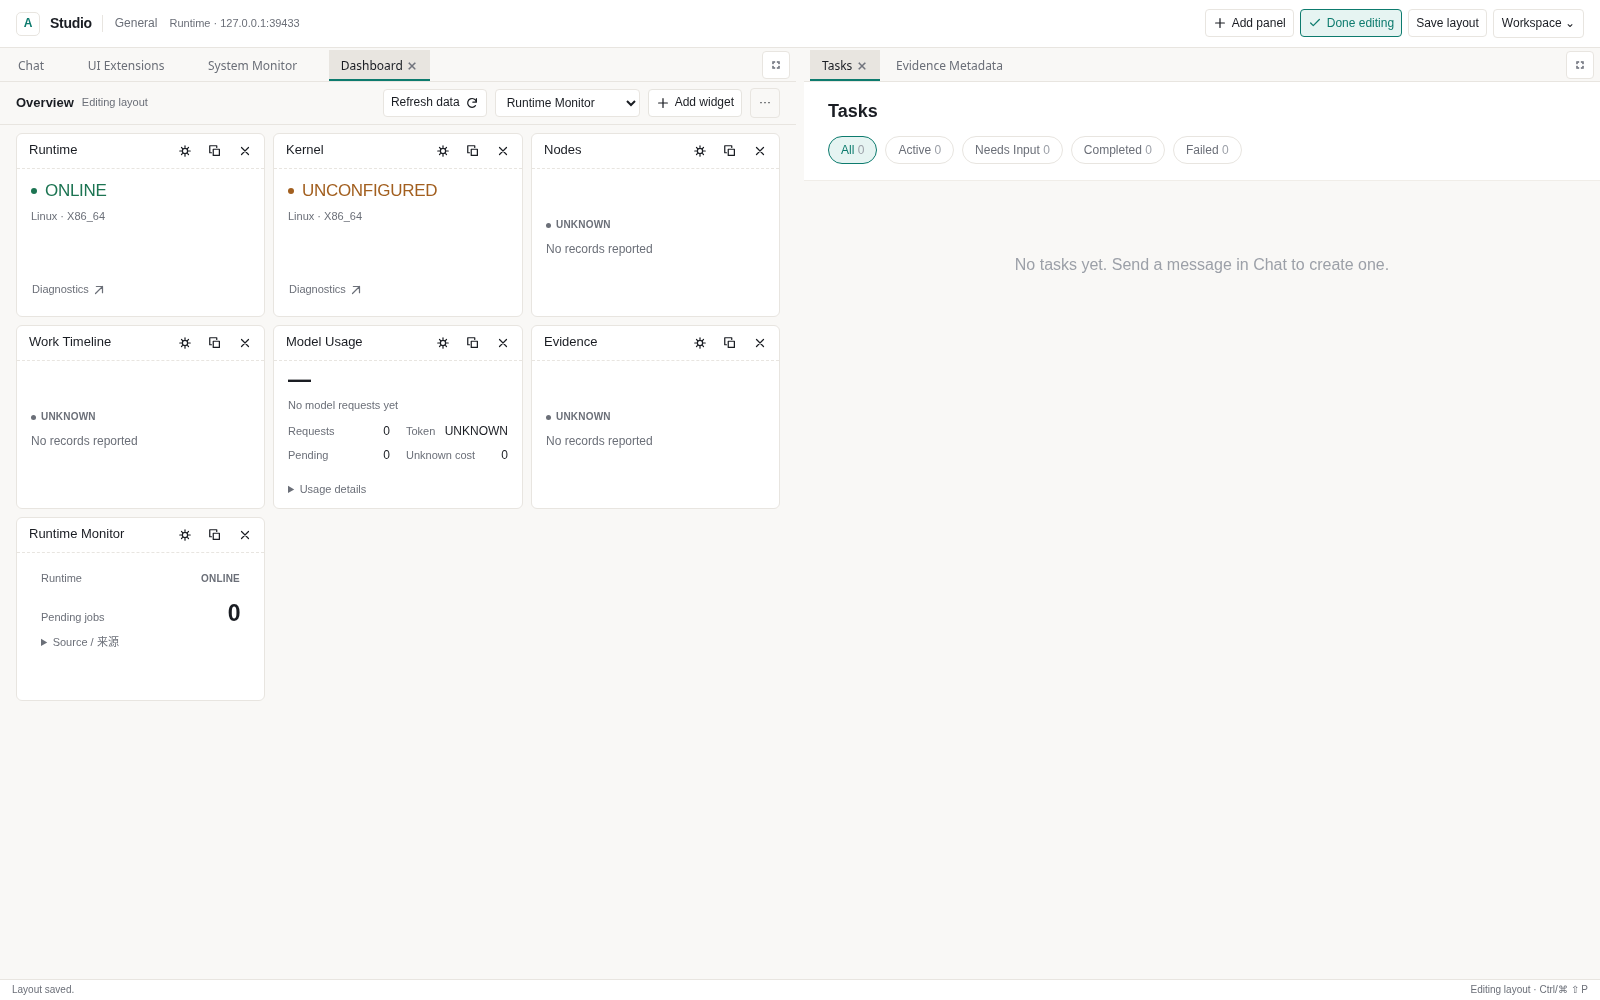
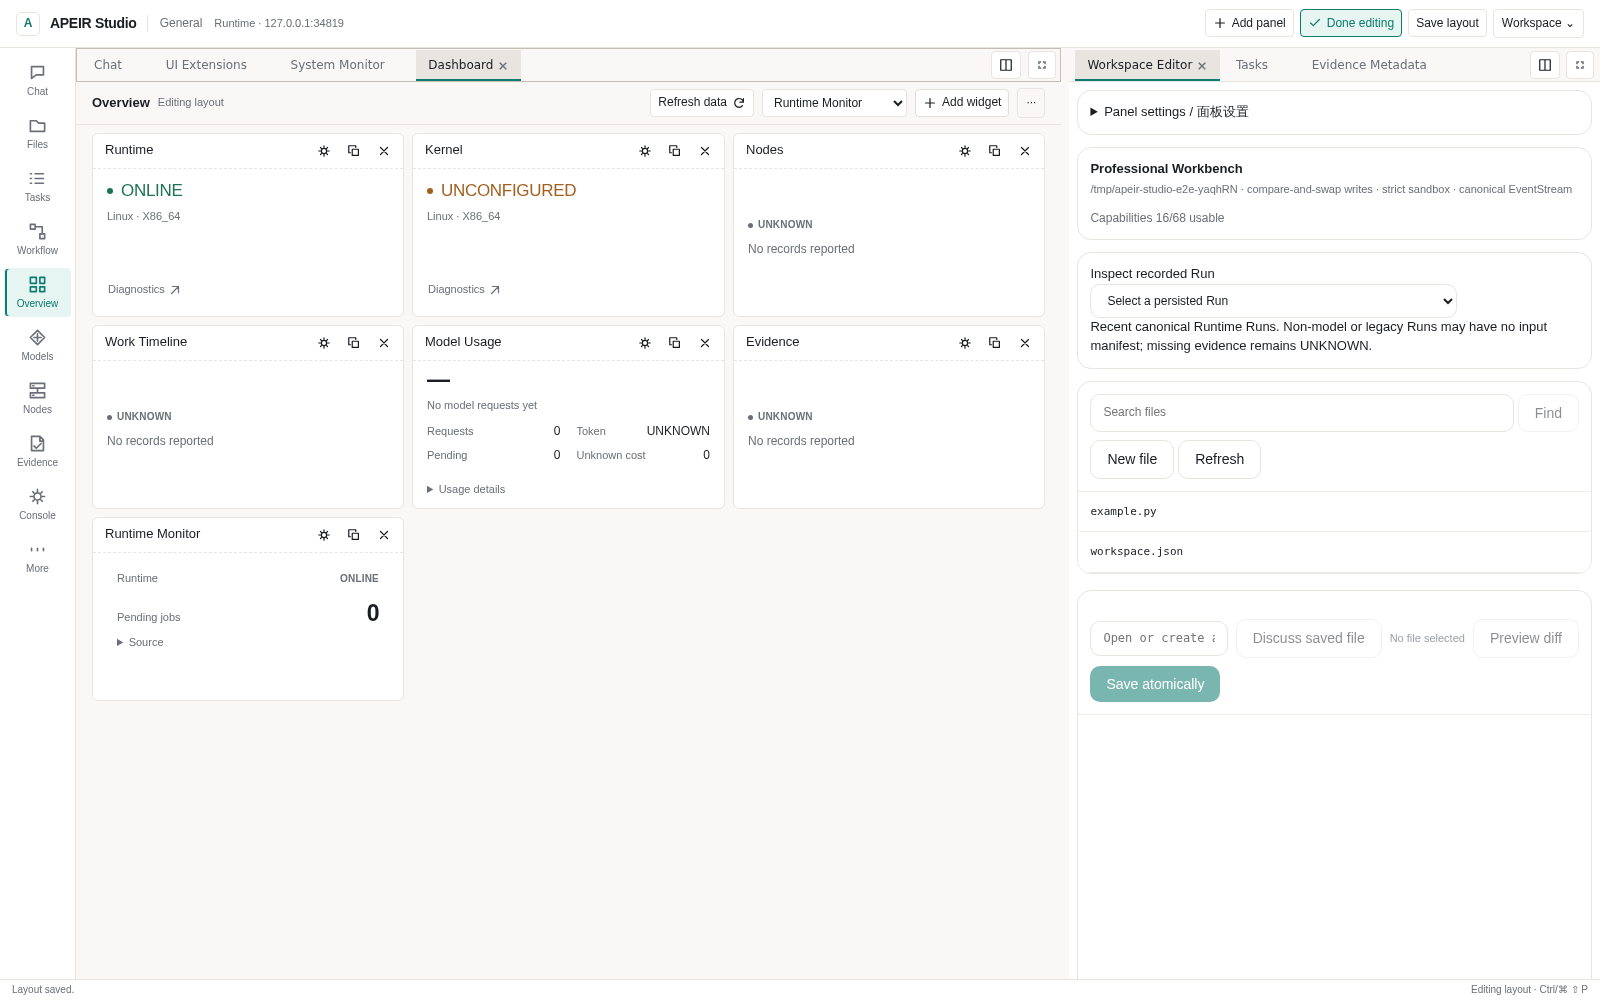
docs(studio): refresh first-use guides and verified product screenshots

diff --git a/docs/operations/getting-started/QUICK_START.md b/docs/operations/getting-started/QUICK_START.md
@@ -4,6 +4,10 @@ Choose the path matching the deliverable you have. No API key, GPU or device is
 needed for the Source Preview and simulated Demo. Current qualification and
 blockers remain in [ROADMAP](../../../ROADMAP.md).
 
+**You need:** Python 3.10+ for the Source Preview. Its prebuilt Studio interface
+does not need Node.js or Rust. Source development additionally needs Node.js
+22.19+. Windows native packaging has separate prerequisites below.
+
 | Path | What you get | Status |
 | --- | --- | --- |
 | [Source Preview](#source-preview) | Downloaded Python Runtime and built Studio browser UI | Source-qualified; no EXE |
@@ -24,12 +28,10 @@ Core/Security/Multi-Arch results. A frontend-only artifact from a PR is not a
 complete Source Preview. GitHub sign-in is required; artifacts have seven-day
 retention. These are source packages, not an EXE, native installer or signed Release.
 
-A separately installed and browser-qualified historical source snapshot is
-`62cbe6ff53a769172067740370f26fb18eb3c094` (2026-10-25):
-[Python package](https://github.com/untrod/apeir/actions/runs/40144930113/artifacts/12580500976)
-and [Studio frontend](https://github.com/untrod/apeir/actions/runs/40144930113/artifacts/12579679819).
-It predates the visual Workflow Builder and declarative UI SDK; do not treat it
-as qualification of those additions. Use a newer accepted matching build for them.
+Choose **both** packages from one accepted run. A GitHub source-code ZIP is not
+the built frontend, and a green frontend check alone does not qualify a complete
+product. If an older artifact has expired, use a newer qualified main run rather
+than mixing packages from different revisions.
 
 Extract the two ZIPs into separate directories. Compare their manifest
 `distribution_revision` values and verify the files against their `SHA256SUMS.txt`.
@@ -203,7 +205,9 @@ npm ci
 npm run dev -- --host 127.0.0.1
 ```
 
-Open the loopback URL printed by Vite. Expand **Controller connection**, set
+Open the loopback URL printed by Vite. In current Studio, choose
+**Workspace → Operations Console**; older previews may open that Console
+directly. Expand **Controller connection**, set
 **API URL** to `http://127.0.0.1:8770`, then enter the token from the owner-only
 local file in **Service session token** and select **Connect**. Set the address
 before entering the token: editing it clears the draft, and changing Controllers
@@ -218,6 +222,12 @@ not an installed Windows executable. File approvals still require a separately
 enrolled authorized human; test execution remains BLOCKED without a qualified
 sandbox. An API health response does not establish model inference or execution
 qualification.
+
+Choose **APEIR Studio / Open workspace** in the Console to return to the
+workspace. Start with **Files**, **Workflow** or **Overview**; a model is optional
+for these supported software paths. Chat remains unconfigured until its model
+and Kernel prerequisites are met. A session token connects to the service; it
+does not approve a file change or grant device control.
 
 The existing Desktop CI also uploads `apeir-studio-source-frontend-<commit>`
 after unit/build and actual Runtime/browser integration pass. This is a static
@@ -404,10 +414,11 @@ need inspection/reconciliation before any new side effect.
 
 **BLOCKED — no current Windows EXE / Portable / NSIS download is qualified.**
 Source Preview does not install the Rust Kernel or package a native Desktop.
-The two original locked Kernel Windows binaries are unavailable. Reviewed R4
-rebuilds passed scoped native-process tests but differ from the unchanged lock;
-relocking requires maintainer approval. Windows10 install/upgrade/uninstall,
-signing and release authorization remain separate.
+The original locked Kernel Windows binaries were unavailable. The maintainer
+has approved exact frozen-source replacement hashes and internal unsigned
+builds; [PR #101](https://github.com/untrod/apeir/pull/101) records the migration.
+Current packaging is under validation. Windows10 install/upgrade/uninstall,
+signing and publication remain separate gates.
 
 See the [recorded component evidence](../deployment/WINDOWS_10_X64_LAUNCHER.md#r4-trusted-candidate-evidence--2026-10-24)
 and [Release Runbook](../../acceptance/RELEASE_RUNBOOK.md). Never rename a source

diff --git a/docs/development/DEVELOPER_PLATFORM.md b/docs/development/DEVELOPER_PLATFORM.md
@@ -3,12 +3,20 @@
 Current overall milestone status is authoritative in [ROADMAP](../../ROADMAP.md).
 Acceptance counts below are dated, scoped records, not broader qualification.
 
-The APEIR Developer Platform is a control surface over the Runtime. It does not
-own a second scheduler, project database, model registry, or execution path.
+Use Studio to work on a project, inspect a workflow, or build an extension.
+The interface uses the existing Runtime services and their permission checks.
+
+| Your goal | Start here |
+| --- | --- |
+| Install and open Studio | [Quick Start](../operations/getting-started/QUICK_START.md) |
+| Arrange project and conversation panels | [Studio](#apeir-studio) |
+| Build and run a supported graph | [Workflow Builder](#visual-workflow-builder) |
+| Create a read-only panel or widget | [UI Extension SDK](#declarative-ui-extension-sdk) |
+| Connect an execution or model Provider | [Provider example](../../examples/hello_provider/README.md) |
 
 ## Surfaces
 
-The desktop `Develop` page provides the following views:
+Studio's panel library and the existing `Develop` views provide:
 
 - **Workbench** provides workspace-scoped file browsing, bounded multi-file UTF-8 editor tabs, unified diff preview, compare-and-swap atomic writes, and fixed-profile strict execution.
 - **Research** provides approval-gated public web fetch, persistent sources, immutable snapshots, artifacts, injection scan results, and run evidence.
@@ -38,7 +46,18 @@ opens Studio directly, with Chat and the workspace editor in a new General
 layout. Existing saved layouts retain their panels and geometry; a dashboard-only
 layout is not reset. Source browser validation is not Windows EXE acceptance.
 
+On a fresh browser session, use **Workspace → Operations Console → Controller
+connection** to enter the Runtime URL and protected service session token, then
+return with **APEIR Studio / Open workspace**. The
+[connection guide](../operations/getting-started/QUICK_START.md#model-free-runtime-api-and-source-interface)
+explains which token to use. A Provider API key does not belong in that form.
+
 ![Studio conversation and project windows, real model-disabled Runtime on Linux Chromium](../media/studio-workspace-source.png)
+
+The current screenshots come from the
+[actual source-browser qualification](https://github.com/untrod/apeir/actions/runs/40351274217)
+at `f9e8301`, using an owned model-disabled Runtime and Linux Chromium.
+They do not qualify Windows installation, live inference or physical devices.
 
 Use **Workspace** for presets, saved layouts, import/export, language and theme.
 The left rail reveals existing Chat, Files, Tasks, Workflow, Dashboard, Models,
@@ -117,6 +136,8 @@ EventStream is the existing cursor-driven bus; Governance audit is separate.
 The same authenticated Controller supplies all visible widgets. Source browser
 checks cover actual HTTP reads and zero mutation requests, not native installation.
 
+![Dark-theme Dashboard connected to the actual model-disabled Runtime; absent resources remain UNKNOWN](../media/studio-source-overview.png)
+
 ### Visual Workflow Builder
 
 Choose **Add panel → Workflow Builder**. The stable `workflow` panel now edits
@@ -134,6 +155,8 @@ refresh history and inspect the original Run. No action is retried automatically
 Run details expose original IDs, definition/input digests, step states, outputs
 and durable EventStream history under the `runtime-service` scope. These are
 computational records, not independent physical-effect verification.
+
+![Workflow Builder showing a registered pure workflow, completed steps and its original Run](../media/studio-workflow-source.png)
 
 This endpoint binds only the existing pure **TRANSFORM**, **CONDITION**, **WAIT**
 and **APPROVAL** handlers. WAIT is an immediate barrier, not a timed delay;

diff --git a/README.md b/README.md
@@ -1,16 +1,27 @@
-# APEIR
+# APEIR Studio
 
-An open execution, governance and verification runtime for heterogeneous
-intelligence and real-world resources. Local-first, with explicit remote execution boundaries.
+A developer workspace for project files, governed workflows and execution
+evidence, powered by APEIR Runtime.
 
 [**Source Preview**](docs/operations/getting-started/QUICK_START.md#source-preview) ·
 [**Quick Start**](docs/operations/getting-started/QUICK_START.md) ·
-[**Documentation**](docs/operations/README.md) · [简体中文](README.zh-CN.md)
+[**SDK & Extensions**](docs/development/DEVELOPER_PLATFORM.md#declarative-ui-extension-sdk) ·
+[**Documentation**](docs/README.md) · [简体中文](README.zh-CN.md)
 
-![APEIR Studio connected to a model-free Runtime](docs/media/studio-source-overview.png)
+![APEIR Studio with Chat, project files and a split editor](docs/media/studio-workspace-source.png)
 
-*Actual Studio source-browser capture with an owned local Runtime. Missing Kernel,
-Node and model data remain unconfigured or unknown. This is not an installed EXE.*
+*Actual source-browser interface connected to a local, model-disabled Runtime.
+This is a Source Developer Preview, not a Windows installation screenshot.*
+
+## Start here
+
+- **Try the workspace:** download matching Runtime and Studio bundles, then follow
+  [Quick Start](docs/operations/getting-started/QUICK_START.md). Python 3.10+ is
+  required; the built browser interface needs no Node.js or Rust.
+- **Develop APEIR:** use [Developer Setup](docs/operations/getting-started/QUICK_START.md#developer-setup)
+  for the editable checkout, UI development server and tests.
+- **Extend Studio:** start with the [System Monitor example](examples/studio_system_monitor/README.md)
+  or the [Provider example](examples/hello_provider/README.md).
 
 ## Overview
 
@@ -40,10 +51,10 @@ It separates downloadable **Source Preview**, **Developer Setup** and
 **Native Installation**. Source inspection and the simulated Demo need no API key
 or hardware. Downloadable source packages are not Windows installers.
 
-**Windows EXE / NSIS: BLOCKED.** Exact locked Kernel binaries are unavailable;
-reviewed replacement candidates await maintainer approval and Windows10 lifecycle
-qualification. See the [native delivery evidence](docs/operations/deployment/WINDOWS_10_X64_LAUNCHER.md#r4-trusted-candidate-evidence--2026-10-24).
-No qualified installer or formal Release is currently advertised.
+**Windows download:** component migration is approved and internal unsigned
+Portable/NSIS builds are being validated in [PR #101](https://github.com/untrod/apeir/pull/101).
+A qualified Windows 10 installer is not yet available. Source Preview downloads
+are not EXE packages; see the [native delivery record](docs/operations/deployment/WINDOWS_10_X64_LAUNCHER.md).
 
 ## Developer Platform
 
@@ -59,9 +70,10 @@ is pinned by [component lock](runtime-components.lock.json).
 Start with the [public Developer Platform](docs/development/DEVELOPER_PLATFORM.md),
 [Provider example](examples/hello_provider/README.md) and
 [Skill example](examples/hello_skill/README.md).
-Executable third-party Studio UI is not enabled. Visual Workflow editing,
-declarative UI contributions and their qualification are tracked in ROADMAP;
-an installed package never grants execution permission.
+The [declarative UI SDK](docs/development/DEVELOPER_PLATFORM.md#declarative-ui-extension-sdk)
+adds reviewed panels and widgets without loading arbitrary JavaScript in the
+trusted window. Executable third-party Studio UI remains disabled until its
+isolation is qualified. Installing a package never grants execution permission.
 
 ## Current Status
 

diff --git a/docs/README.md b/docs/README.md
@@ -1,5 +1,10 @@
 # APEIR documentation
 
+New to APEIR? Start with [Quick Start](operations/getting-started/QUICK_START.md),
+then follow the [Studio guide](development/DEVELOPER_PLATFORM.md#apeir-studio).
+For your own panel, begin with the
+[System Monitor example](../examples/studio_system_monitor/README.md).
+
 The [roadmap](../ROADMAP.md) is the sole current milestone-status source.
 
 | Domain | Responsibility |
@@ -10,6 +15,7 @@ The [roadmap](../ROADMAP.md) is the sole current milestone-status source.
 | [Acceptance](acceptance/README.md) | Dated evidence, limitations and release discipline |
 | [RFCs](rfc/README.md) | Proposed contracts and architecture decisions; not acceptance claims |
 
-Begin with the [constitution](architecture/DISTRIBUTION.md). Historical evidence
+For architecture or execution changes, read the
+[constitution](architecture/DISTRIBUTION.md) first. Historical evidence
 retains its original revision/scope; Git history and immutable checkpoint tags
 preserve obsolete designs without a documentation archive.

diff --git a/docs/development/README.md b/docs/development/README.md
@@ -4,6 +4,10 @@ This section is the contributor and integration reference for APEIR Runtime.
 
 ## Start here
 
+- [Install and run](../operations/getting-started/QUICK_START.md)
+- [Studio panels, layouts and workflows](DEVELOPER_PLATFORM.md#apeir-studio)
+- [UI Extension SDK](DEVELOPER_PLATFORM.md#declarative-ui-extension-sdk)
+- [System Monitor extension example](../../examples/studio_system_monitor/README.md)
 - [Contributor setup](GETTING_STARTED.md)
 - [API reference](API_REFERENCE.md)
 - [CLI reference](CLI_REFERENCE.md)
